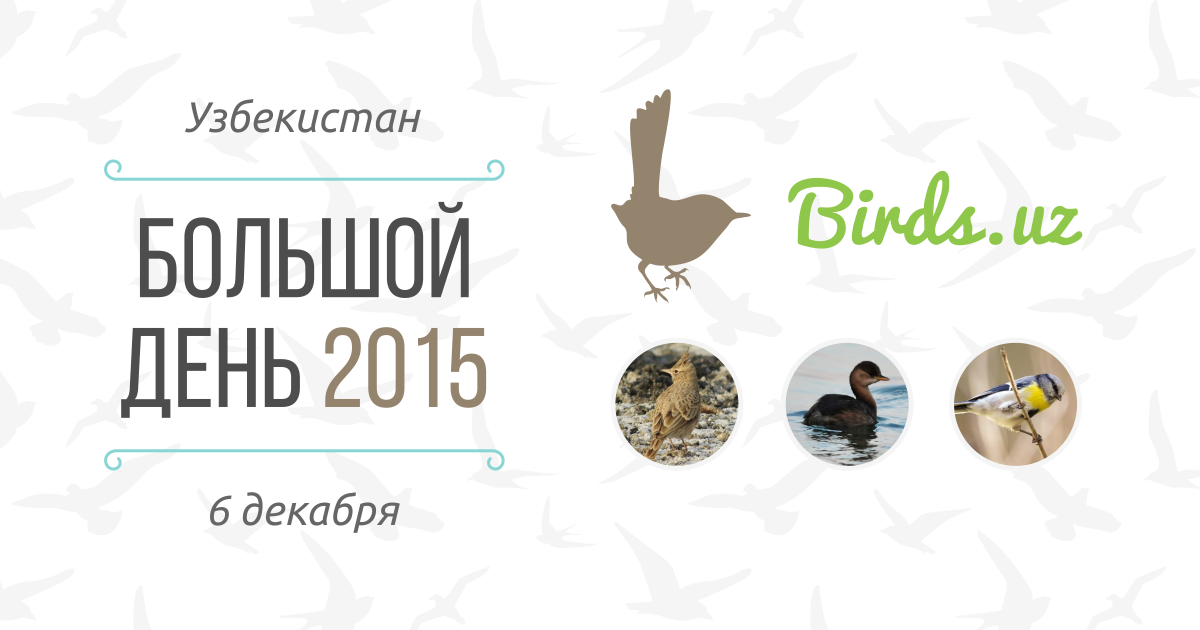
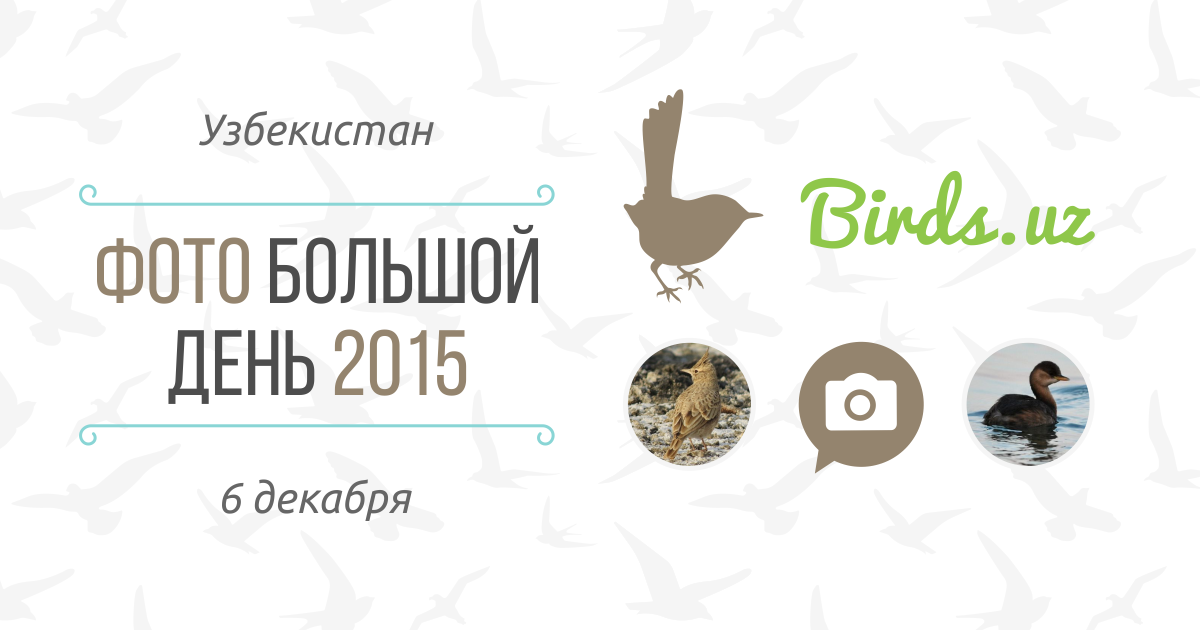
add fb meta data for Photo BigDay contest

diff --git a/app/helpers/pages_helper.rb b/app/helpers/pages_helper.rb
@@ -3,18 +3,21 @@ module PagesHelper
   FACEBOOK_PHOTOS = {
       'default' => 'fb/birds-fb-share.png',
       'big_day_in_tashkent' => 'contests/big_year_2015/photo-1.jpg',
+      'big_day_photo' => 'fb/big-day-single-2015.png',
       'best_photo' => 'fb/best-photo-fb.png'
   }
 
   FACEBOOK_DESCRIPTION = {
       'default' => 'Здесь вы найдете информацию о птицах Узбекистана и много фотографий! Сайт создан людьми, увлеченными птицами и природой, которые готовы помочь каждому в определении птиц.',
       'big_day_in_tashkent' => '15ноября в Ташкенте командой Birds.uz проводилось соревнование бердвотчеров-Большой День.',
+      'big_day_photo' => 'Индивидуальное соревнование по фотобердингу, в котором может принять участие любой желающий!',
       'best_photo' => 'Мы верим, что фотографирование птиц - лучшая альтернативой охоте на них, что путешествовать по нашей стране интересно, а бердвотчинг познакомит вас с природой и новыми интересными людьми!'
   }
 
   FACEBOOK_TITLE = {
       'default' => 'Давайте наблюдать птиц вместе!',
       'big_day_in_tashkent' => 'Большой День в Ташкенте или у природы нет плохой погоды',
+      'big_day_photo' => 'ФОТО Большой День, Узбекистан, 6 декабря 2015',
       'best_photo' => 'Лучшая фотография птицы Узбекистана'
   }
 
